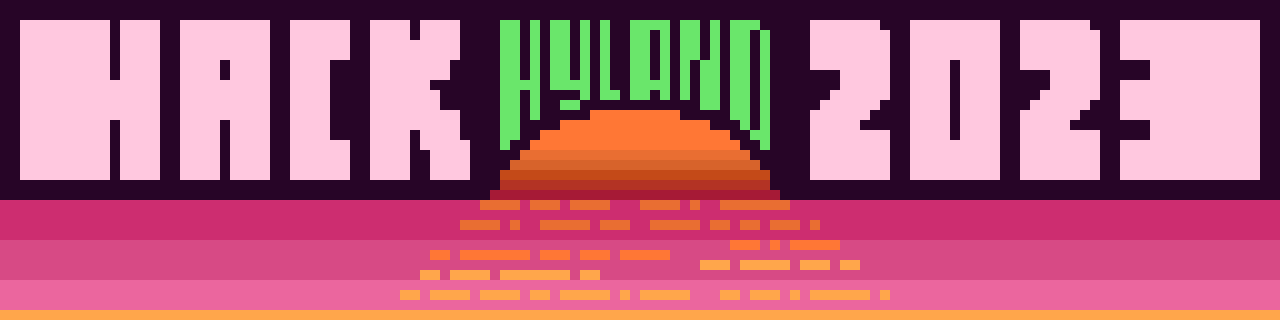
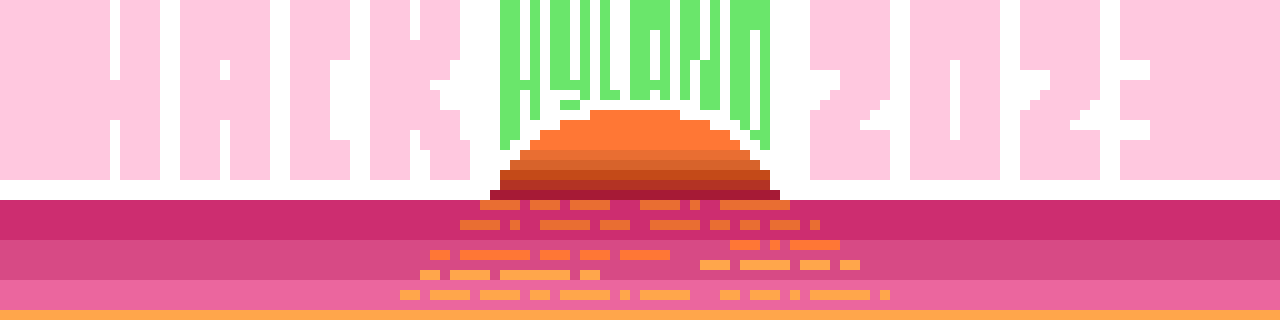
some small updates

Changed region(s): [[0.0, 0.0, 1.0, 0.625]]

diff --git a/README.md b/README.md
@@ -1,4 +1,4 @@
-![](Assets/Welcome2.png)
+![](Assets/Welcome.png)
 
 #### [Zoom](ZoomInformation.md) | [Discord](DiscordInformation.md) | [Schedule](Schedule.md) | [Tracks](Tracks.md) | [Travel](GettingToHyland.md) | [Contact](Contact.md) |
 
